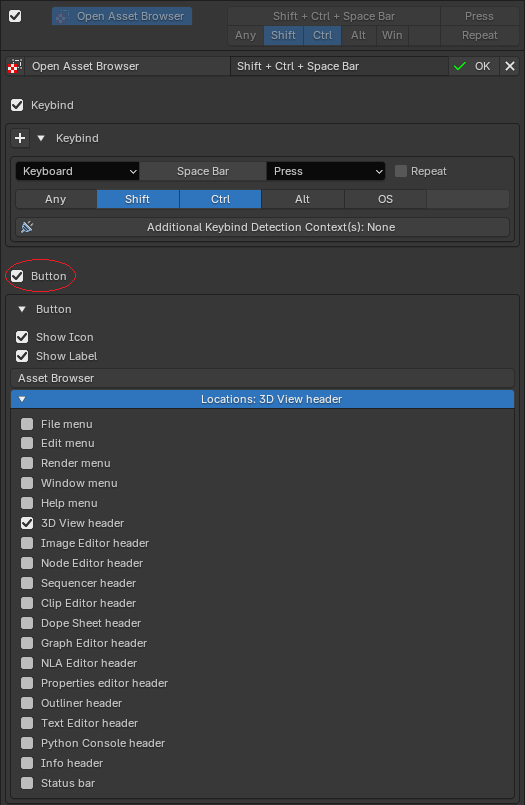
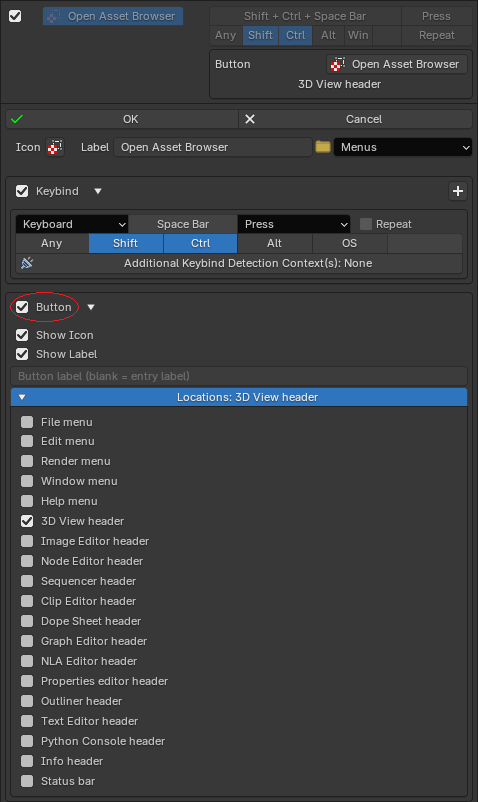
Add files via upload

diff --git a/keymapper.html b/keymapper.html
@@ -267,6 +267,7 @@
       <a class="sub" href="#conflicts">Conflict Detection</a>
       <a class="sub" href="#import-export">Import / Export</a>
       <a class="sub" href="#settings">Settings</a>
+      <a class="sub" href="#changelog">Changelog</a>
     </nav>
 
     <main>
@@ -386,16 +387,16 @@
 
       <section id="getting-started">
         <h1>Getting Started</h1>
-        <p>Keymapper's panel can be shown in three places, toggled in the addon preferences:</p>
+        <p>Keymapper's panel can be shown in three places:</p>
         <ul>
-          <li><code>Edit &gt; Preferences &gt; Keymap</code> — shown at the top of the Keymap section (default).</li>
+          <li><code>Edit &gt; Preferences &gt; Keymap</code> — shown at the top of the Keymap section. Always enabled, so at least one Keymapper panel exists.</li>
           <li>The <strong>N-panel</strong> in the 3D Viewport, under the Keymapper tab.</li>
           <li>The addon's own preferences page.</li>
         </ul>
         <p>
-          To choose where it shows, open the addon preferences
-          (<code>Edit &gt; Preferences &gt; Add-ons &gt; Keymapper</code>) and expand
-          the <strong>Panel Visibility</strong> dropdown — one toggle per location.
+          The N-panel and Addon Preferences locations are toggled in the addon
+          preferences (<code>Edit &gt; Preferences &gt; Add-ons &gt; Keymapper</code>)
+          under the <strong>Panel Visibility</strong> dropdown.
         </p>
 
         <figure class="doc-shot">
@@ -440,12 +441,26 @@
         <p>
           The fastest way to bind something you're looking at: right-click a button
           or menu item in the UI and choose <strong>Add Keymapper Shortcut
-          Entry&hellip;</strong> The entry form opens with that operator already
-          filled in — just set the keybind and confirm.
+          Entry&hellip;</strong>
         </p>
 
         <figure class="doc-shot">
           <img src="assets/doc/04_CreatingShortcuts/04_2_RightClickAdd.png" alt="Right-click menu with Add Keymapper Shortcut Entry">
+        </figure>
+        <p>
+          A popup panel opens with that operator already filled in — set the keybind
+          and confirm right there, without opening the full Keymapper panel. The
+          popup also has a button that redirects you to the full panel for further
+          editing; which panel it redirects to is configurable in the addon
+          preferences.
+        </p>
+
+        <figure class="doc-shot">
+          <img src="assets/doc/04_CreatingShortcuts/04_2_RightClickAddPopup.png" alt="The right-click add popup panel">
+        </figure>
+
+        <figure class="doc-shot">
+          <img src="assets/doc/04_CreatingShortcuts/04_2.5_RedirectSetting.png" alt="The addon preference for choosing which panel the popup redirects to">
         </figure>
         <h2>Browse modes</h2>
         <ul>
@@ -508,6 +523,11 @@
           identifiers). Set a <strong>custom label</strong> in the entry form and it
           overrides the derived name entirely — useful when a bundle of operators
           deserves a name of its own.
+        </p>
+        <p>
+          Attribute-based operators get plain-language names too: an entry built on a
+          <code>wm.context_*</code> operator is named after the setting it changes,
+          so a shortcut reads "Face Orientation" rather than "Context Toggle".
         </p>
 
         <h2>Custom icons</h2>
@@ -749,9 +769,9 @@
         <h1>Settings</h1>
         <p>The addon preferences (<code>Edit &gt; Preferences &gt; Add-ons &gt; Keymapper</code>) contain:</p>
         <ul>
-          <li><strong>Panel Visibility</strong> — choose where the Keymapper panel appears (Keymap preferences, N-panel, addon preferences).</li>
+          <li><strong>Panel Visibility</strong> — choose where the Keymapper panel appears (N-panel, addon preferences — the Keymap location is always enabled), and where the right-click popup's edit button redirects to.</li>
           <li><strong>Conflict Detection</strong> — which keyconfig layers are scanned (Factory / User / Addon) and override rules for shortcut and keybind conflicts, including a per-action-value detection matrix.</li>
-          <li><strong>Other</strong> — extra options such as enabling the Factory browse mode.</li>
+          <li><strong>Other</strong> — Changelog and extra options such as enabling the Factory browse mode.</li>
         </ul>
 
         <figure class="doc-shot">
@@ -761,6 +781,39 @@
           Every checkbox shows a restore button whenever its value differs from the
           default, so you can always get back to stock behavior.
         </p>
+      </section>
+
+      <section id="changelog">
+        <h1>Changelog</h1>
+        <h2>1.1.0</h2>
+        <ul>
+          <li><strong>(NEW FEATURE) Right-Click add Popup Panel</strong><br>When adding a shortcut from the right-click menu, a popup panel now appears where you can finalize the shortcut creation without needing to open the full Keymapper panel.<br>There is also a button in the popup panel to re-direct you to the full Keymapper panel if you want to edit it further there.<br>Three new togglable options have therefore been added to the addon preferences, where you can select which Keymapper panel it should re-direct to.</li>
+          <li><strong>(NEW FEATURE) Changelog</strong><br>Added a collapsable changelog in addon preferences, making it possible to see everything that's changed since release.</li>
+          <li><strong>(NEW) Update notification.</strong><br>If Keymapper was installed through the online extension system, the main panel now shows an "Update Available!" banner when a newer version has been published. Clicking it opens Blender's extension list so you can install the update. The check reads the repository listing Blender itself has already downloaded, so it appears once Blender has checked for updates.</li>
+          <li><strong>(NEW) Every keybind of an entry now has its own slot.</strong><br>Entries with several keybinds previously showed only the first one plus a "+ N other keybindings" note. Each keybind is now listed in full on the entry card, and entries that also create a button show it beneath them.</li>
+          <li><strong>(NEW) Attribute names are now shown in plain language.</strong><br>Entries built on wm.context_* operators are named after the setting they change, so a shortcut now reads "Face Orientation" instead of "Context Toggle".</li>
+          <li><strong>(NEW) "Show in Keymap" is now permanently enabled, so at least one Keymapper panel always exists.</strong></li>
+          <li><strong>Reworked the entry editor layout.</strong><br>Icon, label and folder now share one row, the Keybind and Button checkboxes double as their section headers, and each selected operator sits in its own box with its properties below the context selector.</li>
+          <li><strong>Fixed internal conflicts not being detected for entries bound in global keymaps.</strong><br>An entry living in the Window or Screen keymap fires in every editor, but it was only compared against a fixed list of contexts. Anything outside that list — Animation, Sequencer, Grease Pencil modes and others — was treated as unrelated, so real collisions went unreported.</li>
+          <li><strong>Fixed conflicts being missed for operators that bind to many keymaps.</strong><br>Activating an entry registers its operator in every keymap that operator belongs to, but conflict detection only considered the first one, so collisions in the other keymaps went unreported.</li>
+          <li><strong>Fixed the conflicts list not refreshing after changing a keybind.</strong><br>Internal conflicts were served from a cache that was not cleared when the shortcut changed, so a conflict found with the previous keybind could stay listed after it no longer applied.</li>
+          <li><strong>Fixed a crash that could occur while scanning the keyconfig after enabling or disabling add-ons.</strong></li>
+          <li><strong>Fixed the enable checkbox doing nothing on an entry that had not been confirmed yet.</strong></li>
+          <li><strong>Fixed a button using the operator name instead of the entry label when no custom button label was set.</strong></li>
+          <li><strong>Updated Documentation to reflect changes.</strong></li>
+        </ul>
+        <h2>1.0.2</h2>
+        <ul>
+          <li><strong>Fixed a bug where the initial "Scan Keyconfig" prompt would not go away after pressing it if the Keymapper was installed through the online extension system.</strong></li>
+        </ul>
+        <h2>1.0.1</h2>
+        <ul>
+          <li><strong>Fixed a bug where default KMIs would get disabled from conflict detection even though conflict detection was set to disabled.</strong></li>
+        </ul>
+        <h2>1.0.0</h2>
+        <ul>
+          <li><strong>Initial release of Keymapper</strong></li>
+        </ul>
       </section>
 
     </main>
